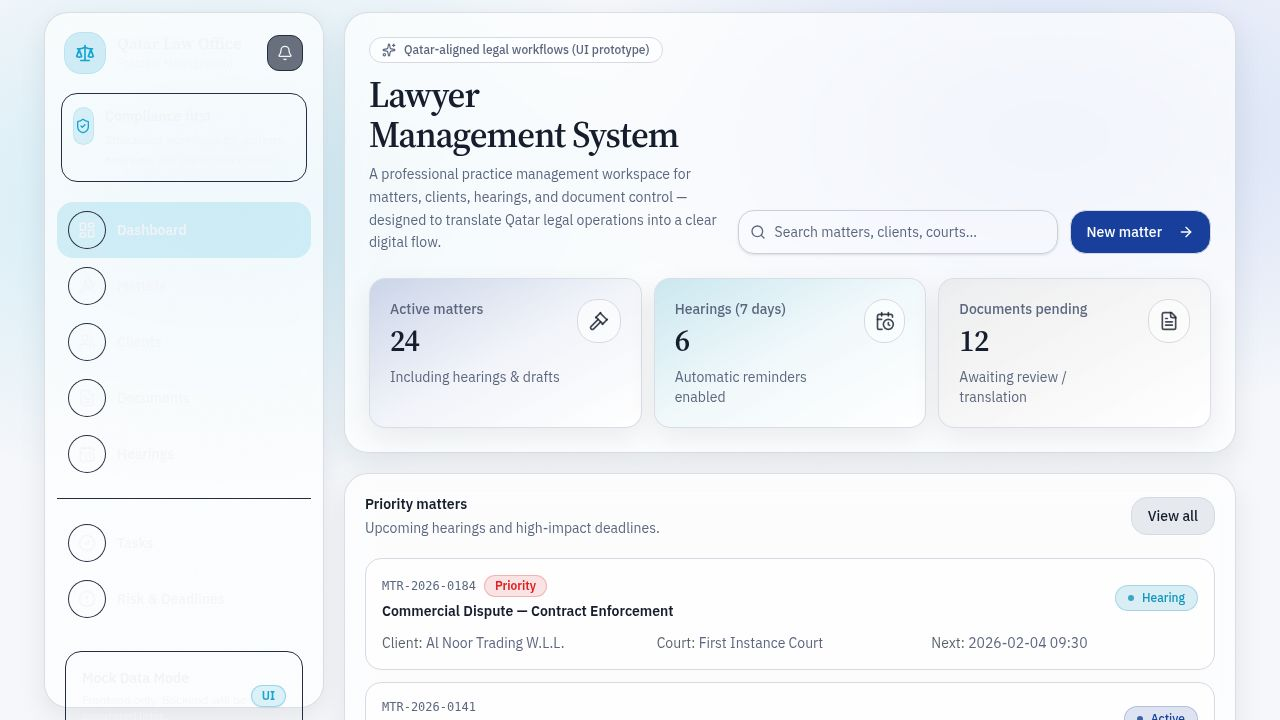
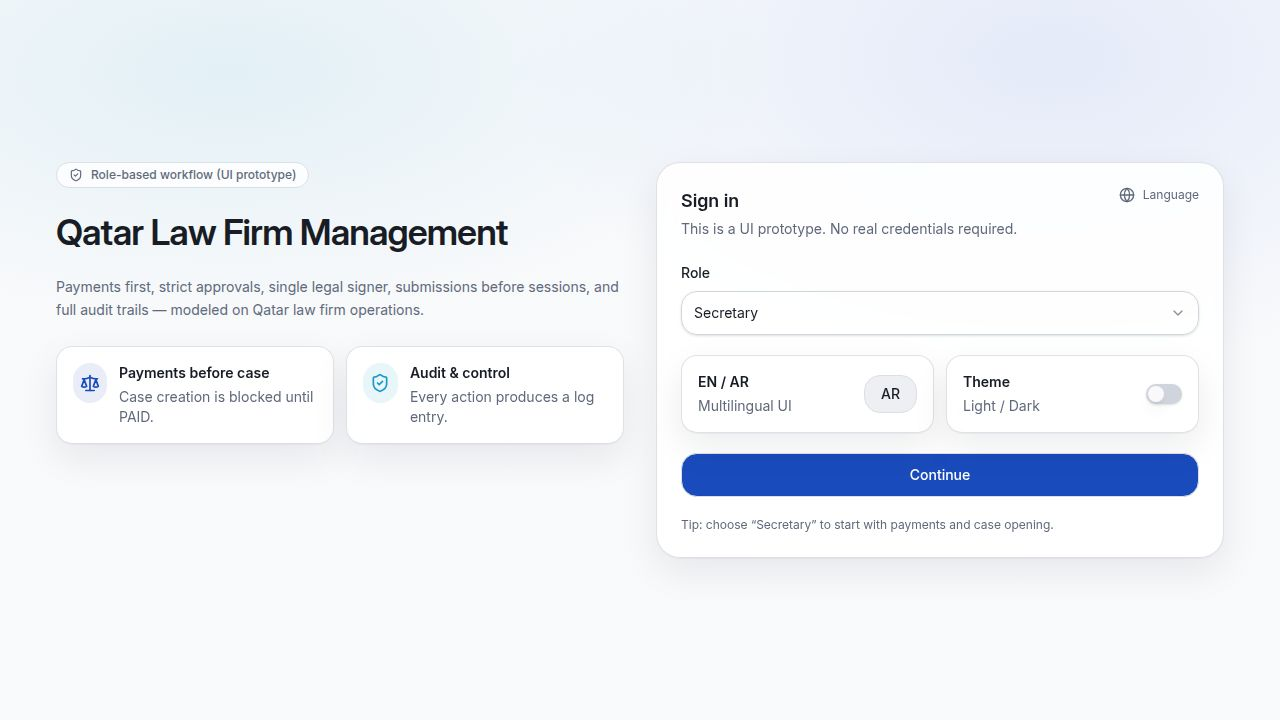
Enhance UI polish and responsiveness for secretary dashboard
Update dialog overlays with backdrop blur, refine card surfaces with subtle blur and adjusted shadows, and make header and sidebar sticky with blur effects.

Replit-Commit-Author: Agent
Replit-Commit-Session-Id: 9c21b93d-ed3d-44a8-acd3-a48b4318606e
Replit-Commit-Checkpoint-Type: full_checkpoint
Replit-Commit-Event-Id: 8ed708f6-0139-4384-bce2-a65840dbb455
Replit-Commit-Screenshot-Url: https://storage.googleapis.com/screenshot-production-us-central1/c6ea1d9d-25ee-4ba5-8de6-82dc36a365cb/9c21b93d-ed3d-44a8-acd3-a48b4318606e/4mNg94r
Replit-Helium-Checkpoint-Created: true

diff --git a/client/src/pages/secretary.tsx b/client/src/pages/secretary.tsx
@@ -686,57 +686,59 @@ export default function SecretaryPage() {
   return (
     <div className={`app-bg min-h-screen ${locale === "ar" ? "dir-rtl" : ""} ${isDark ? "dark" : ""}`}>
       <div className="mx-auto max-w-[1320px] px-4 py-3 lg:px-6">
-        <header className="mb-5 mt-2 flex items-center justify-between gap-3">
-          <div className="flex items-center gap-3">
-            <div className="grid h-10 w-10 place-items-center rounded-2xl bg-primary/10 text-primary">
-              <Wallet className="h-5 w-5" />
-            </div>
-            <div>
-              <div data-testid="text-secretary-title" className="text-base font-semibold">
-                {t(locale, "secretaryWorkspace")}
+        <header className="sticky-blur sticky top-3 z-20 mb-5 mt-2 rounded-3xl border px-4 py-3">
+          <div className="flex items-center justify-between gap-3">
+            <div className="flex items-center gap-3">
+              <div className="grid h-10 w-10 place-items-center rounded-2xl bg-primary/10 text-primary">
+                <Wallet className="h-5 w-5" />
               </div>
-              <div data-testid="text-secretary-subtitle" className="mt-0.5 text-sm text-muted-foreground">
-                {t(locale, "secretarySubtitle")}
+              <div>
+                <div data-testid="text-secretary-title" className="text-base font-semibold">
+                  {t(locale, "secretaryWorkspace")}
+                </div>
+                <div data-testid="text-secretary-subtitle" className="mt-0.5 text-sm text-muted-foreground">
+                  {t(locale, "secretarySubtitle")}
+                </div>
               </div>
             </div>
-          </div>
 
-          <div className="flex items-center gap-2">
-            <div className="hidden items-center gap-2 md:flex">
-              <div className="relative">
-                <Search className="pointer-events-none absolute left-3 top-1/2 h-4 w-4 -translate-y-1/2 text-muted-foreground" />
-                <Input
-                  data-testid="input-search"
-                  value={query}
-                  onChange={(e) => setQuery(e.target.value)}
-                  placeholder={locale === "ar" ? "بحث..." : "Search payments, cases, sessions..."}
-                  className="h-10 w-[320px] rounded-2xl pl-9"
-                />
+            <div className="flex items-center gap-2">
+              <div className="hidden items-center gap-2 md:flex">
+                <div className="relative">
+                  <Search className="pointer-events-none absolute left-3 top-1/2 h-4 w-4 -translate-y-1/2 text-muted-foreground" />
+                  <Input
+                    data-testid="input-search"
+                    value={query}
+                    onChange={(e) => setQuery(e.target.value)}
+                    placeholder={locale === "ar" ? "بحث..." : "Search payments, cases, sessions..."}
+                    className="h-10 w-[320px] rounded-2xl pl-9"
+                  />
+                </div>
               </div>
-            </div>
-            <Button data-testid="button-notifications" variant="secondary" className="rounded-2xl">
-              <Bell className="h-4 w-4" />
-            </Button>
-            <Link href="/login">
-              <Button data-testid="button-back-login" variant="secondary" className="rounded-2xl">
-                Back
+              <Button data-testid="button-notifications" variant="secondary" className="rounded-2xl">
+                <Bell className="h-4 w-4" />
               </Button>
-            </Link>
+              <Link href="/login">
+                <Button data-testid="button-back-login" variant="secondary" className="rounded-2xl">
+                  Back
+                </Button>
+              </Link>
+            </div>
           </div>
         </header>
 
         <div className="flex gap-5">
           <aside className="hidden h-[calc(100vh-24px)] w-[280px] shrink-0 lg:block">
-            <div className="card-surface h-full rounded-3xl p-4">
-              <div className="flex items-center justify-between px-2 py-2">
-                <div>
-                  <div className="text-sm font-semibold">Secretary Dashboard</div>
-                  <div className="mt-1 text-xs text-muted-foreground">Operations & front desk</div>
+            <div className="card-surface sticky top-3 h-[calc(100vh-24px)] rounded-3xl p-4">
+              <div className="sticky-blur -mx-4 -mt-4 mb-3 rounded-t-3xl border-b px-4 pb-3 pt-4">
+                <div className="flex items-center justify-between">
+                  <div>
+                    <div className="text-sm font-semibold">Secretary Dashboard</div>
+                    <div className="mt-1 text-xs text-muted-foreground">Operations & front desk</div>
+                  </div>
+                  <Pill tone="accent" text="UI" testId="badge-mode" />
                 </div>
-                <Pill tone="accent" text="UI" testId="badge-mode" />
               </div>
-
-              <Separator className="my-4" />
 
               <div className="space-y-1">
                 <button

diff --git a/client/src/components/ui/dialog.tsx b/client/src/components/ui/dialog.tsx
@@ -19,7 +19,7 @@ const DialogOverlay = React.forwardRef<
   <DialogPrimitive.Overlay
     ref={ref}
     className={cn(
-      "fixed inset-0 z-50 bg-black/80  data-[state=open]:animate-in data-[state=closed]:animate-out data-[state=closed]:fade-out-0 data-[state=open]:fade-in-0",
+      "fixed inset-0 z-50 bg-black/70 backdrop-blur-sm data-[state=open]:animate-in data-[state=closed]:animate-out data-[state=closed]:fade-out-0 data-[state=open]:fade-in-0",
       className
     )}
     {...props}
@@ -36,13 +36,14 @@ const DialogContent = React.forwardRef<
     <DialogPrimitive.Content
       ref={ref}
       className={cn(
-        "fixed left-[50%] top-[50%] z-50 grid w-full max-w-lg translate-x-[-50%] translate-y-[-50%] gap-4 border bg-background p-6 shadow-lg duration-200 data-[state=open]:animate-in data-[state=closed]:animate-out data-[state=closed]:fade-out-0 data-[state=open]:fade-in-0 data-[state=closed]:zoom-out-95 data-[state=open]:zoom-in-95 data-[state=closed]:slide-out-to-left-1/2 data-[state=closed]:slide-out-to-top-[48%] data-[state=open]:slide-in-from-left-1/2 data-[state=open]:slide-in-from-top-[48%] sm:rounded-lg",
+        "fixed left-[50%] top-[50%] z-50 grid w-full max-w-lg translate-x-[-50%] translate-y-[-50%] gap-4 border bg-background/95 p-6 shadow-lg backdrop-blur duration-200 data-[state=open]:animate-in data-[state=closed]:animate-out data-[state=closed]:fade-out-0 data-[state=open]:fade-in-0 data-[state=closed]:zoom-out-95 data-[state=open]:zoom-in-95 data-[state=closed]:slide-out-to-left-1/2 data-[state=closed]:slide-out-to-top-[48%] data-[state=open]:slide-in-from-left-1/2 data-[state=open]:slide-in-from-top-[48%] sm:rounded-2xl",
+        "max-h-[min(88vh,860px)] overflow-y-auto",
         className
       )}
       {...props}
     >
       {children}
-      <DialogPrimitive.Close className="absolute right-4 top-4 rounded-sm opacity-70 ring-offset-background transition-opacity hover:opacity-100 focus:outline-none focus:ring-2 focus:ring-ring focus:ring-offset-2 disabled:pointer-events-none data-[state=open]:bg-accent data-[state=open]:text-muted-foreground">
+      <DialogPrimitive.Close className="absolute right-4 top-4 rounded-xl p-2 opacity-70 ring-offset-background transition hover:bg-muted/60 hover:opacity-100 focus:outline-none focus:ring-2 focus:ring-ring focus:ring-offset-2 disabled:pointer-events-none">
         <X className="h-4 w-4" />
         <span className="sr-only">Close</span>
       </DialogPrimitive.Close>

diff --git a/client/src/index.css b/client/src/index.css
@@ -121,15 +121,21 @@
   }
 
   .card-surface {
-    background: hsl(var(--card) / 0.92);
-    border: 1px solid hsl(var(--border) / 1);
+    background: hsl(var(--card) / 0.88);
+    border: 1px solid hsl(var(--border) / 0.95);
     box-shadow:
       0 1px 0 hsl(222 25% 10% / 0.04),
-      0 16px 40px hsl(222 25% 10% / 0.06);
+      0 14px 36px hsl(222 25% 10% / 0.08);
+    backdrop-filter: blur(10px);
   }
 
   .card-surface-dark {
-    background: hsl(var(--card) / 0.85);
+    background: hsl(var(--card) / 0.82);
+  }
+
+  .sticky-blur {
+    background: hsl(var(--background) / 0.72);
+    backdrop-filter: blur(14px);
   }
 
   .focus-ring {
